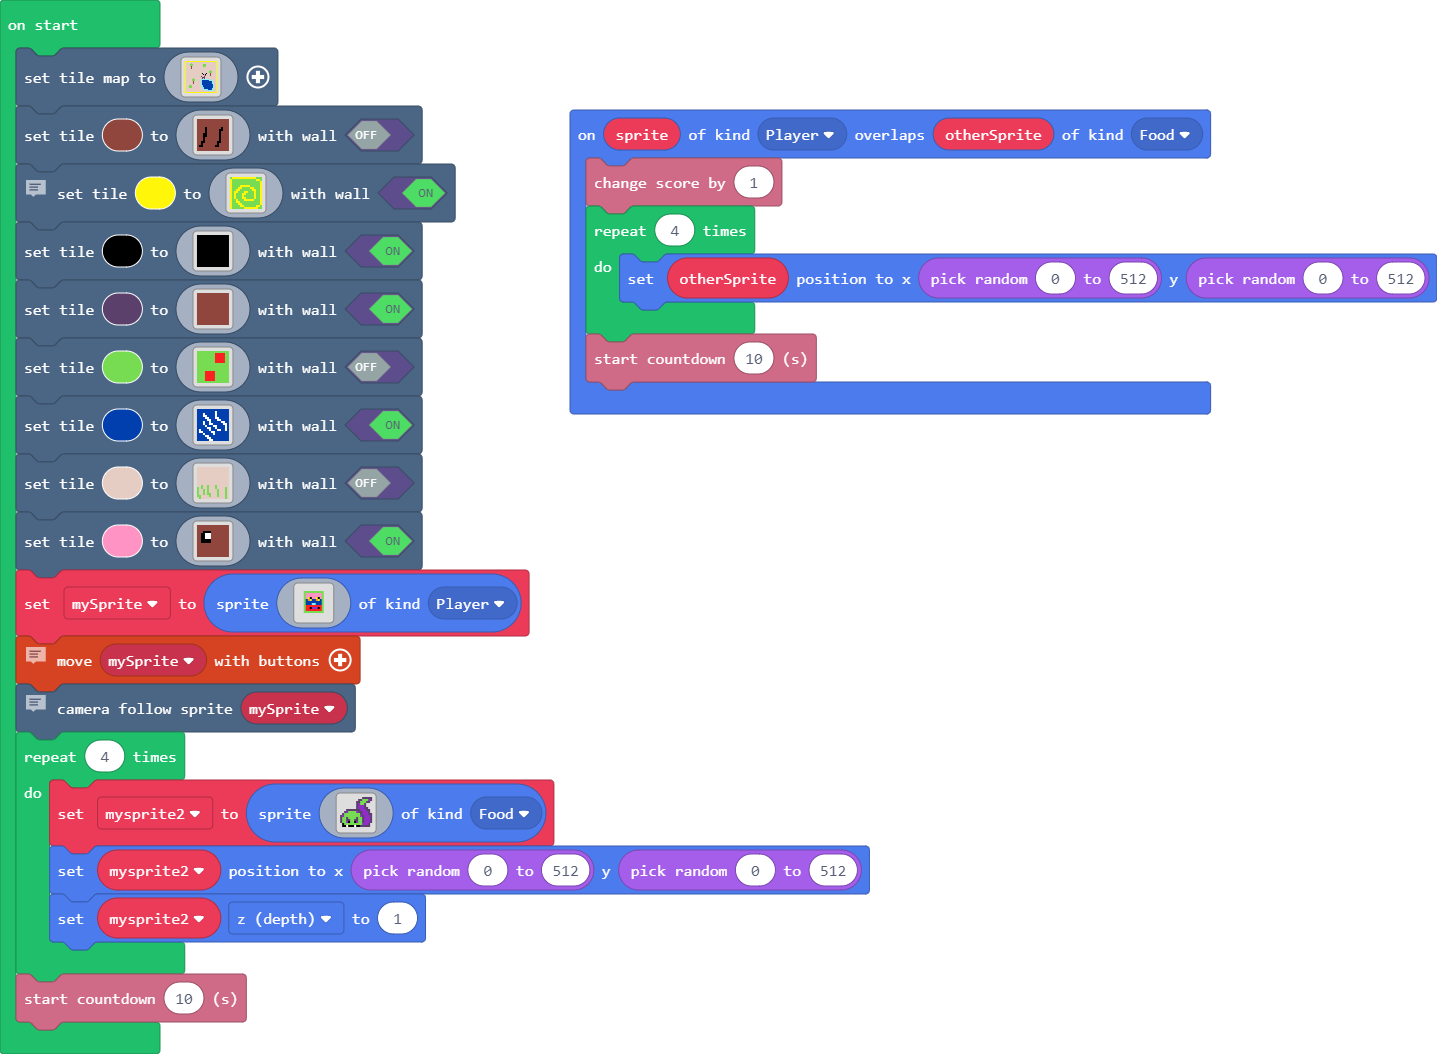
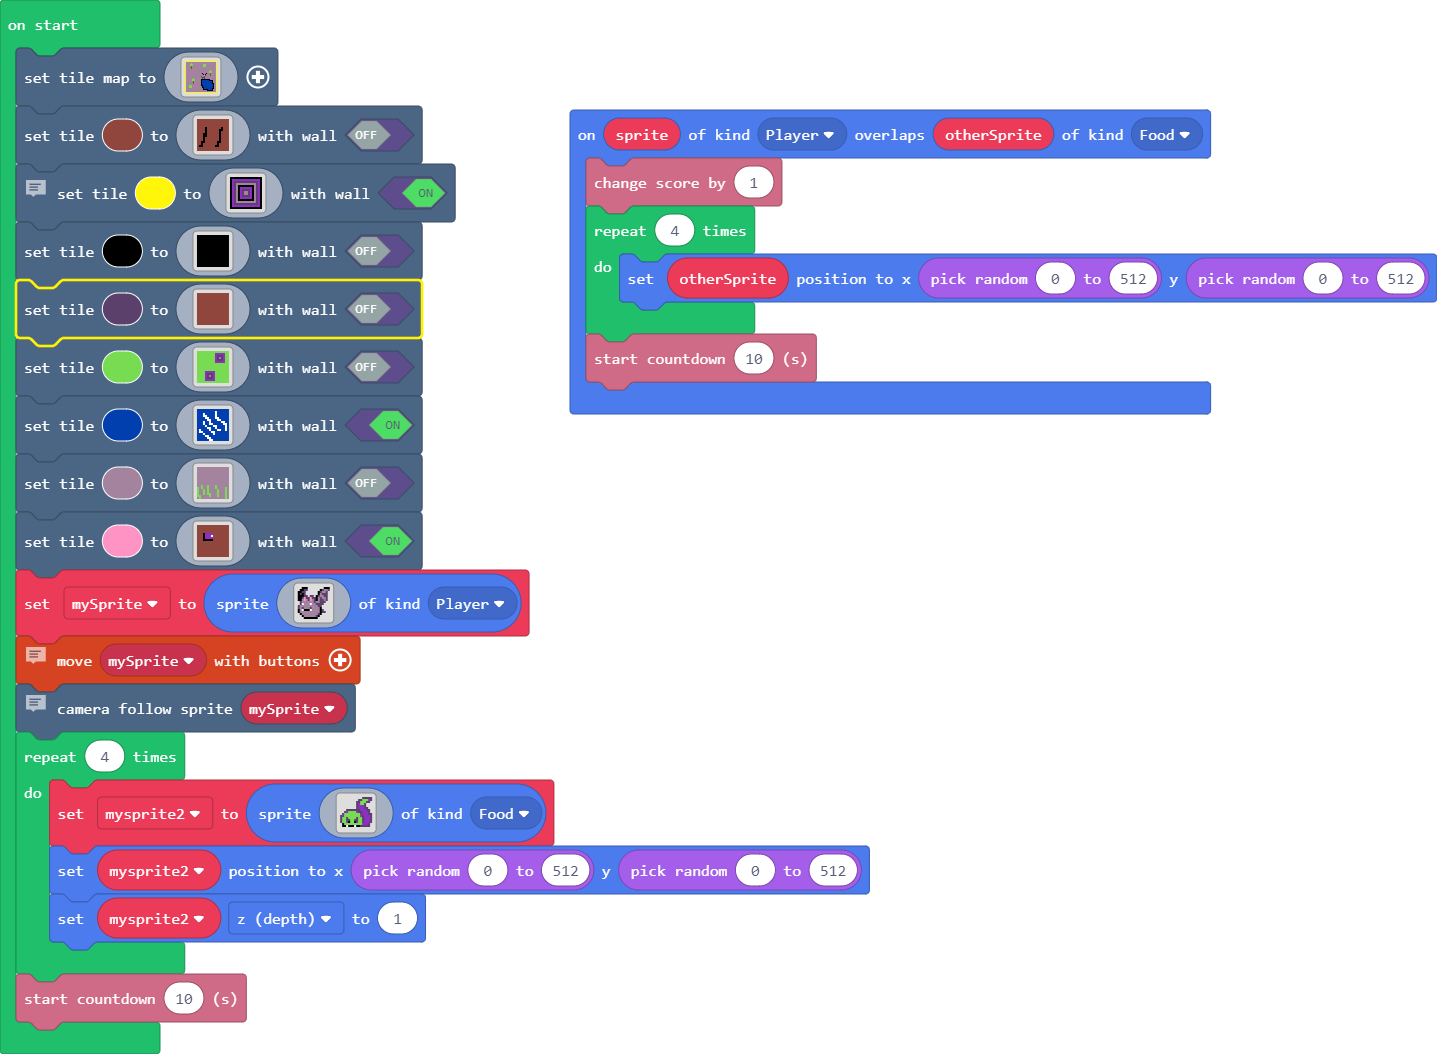
Update main.blocks, main.ts

diff --git a/main.ts b/main.ts
@@ -8,36 +8,36 @@ sprites.onOverlap(SpriteKind.Player, SpriteKind.Food, function (sprite, otherSpr
 let mysprite2: Sprite = null
 scene.setTileMap(img`
 5 5 5 5 5 5 5 5 5 5 5 5 5 5 5 5 5 5 5 5 5 5 5 5 5 5 5 5 5 5 5 5 
-5 d d d d d d d d d d d d d d d d d d d d d d d d d d d d d d 5 
-5 d d d d d 7 d d d d d d d d d d d d d d d d d d d d d d d d 5 
-5 d d d d 7 7 7 d d d d d d d d d d 7 7 7 d d d d d d d d d d 5 
-5 d d d d 7 7 7 d d d d d d d d d d 7 7 7 d d d d d d d d d d 5 
-5 d d d d d e d d d d d d d d d d d 7 7 7 d d d d d d d d d d 5 
-5 d d d d d e d d d d d d d d d d d d d d d d d d d d d d d d 5 
-5 d d d d d e d d d d d d d d d d d d d d d d d d d d d d d d 5 
-5 d d d d d d d d d d d d d d d d d d d d d d d d d d d d d d 5 
-5 d d d d d d d d d d d d d d d d d d d d d d d d 7 d d d d d 5 
-5 d d d d d d d d d d d d d d d d d d d d d d d 7 7 7 d d d d 5 
-5 d d d d d d d d d d d d d d d d d d d d d d d 7 7 7 d d d d 5 
-5 d d d d d d d d d d d d d d d d f d d d f d d d e d d d d d 5 
-5 d d d d d d d d d d d d d d d d d f d f d d d d e d d d d d 5 
-5 d d d d d d d d d d d d d d d d d d 3 c d d d d e d d d d d 5 
-5 d d d d d d d d d d d d d d d c d d c d d d d d d d d d d d 5 
-5 d d d d d d d d d d d d d d d d c c c d d d d d d d d d d d 5 
-5 d d d d d d d 7 d d d d d d d d c d c d d d d d d d d d d d 5 
-5 d d d d d d 7 7 7 d d d d d d 9 9 9 9 9 9 9 9 9 d d d d d d 5 
-5 d d d d d d 7 7 7 d d d d d d 9 8 8 8 8 8 8 8 9 9 9 9 d d d 5 
-5 d d d d d d d e d d d d d d d 9 8 8 8 8 8 8 8 8 8 8 9 d d d 5 
-5 d d d d d d d e d d d d d d d 9 8 8 8 8 8 8 8 8 8 8 9 d d d 5 
-5 d d d d d d d e d d d d d d d 9 8 8 8 8 8 8 8 8 8 8 9 9 d d 5 
-5 d d d d d d d d d d d d d d d 9 8 8 8 8 8 8 8 8 8 8 8 9 d d 5 
-5 d d d 7 7 7 d d d d d d d d d 9 9 8 8 8 8 8 8 8 8 8 8 9 d d 5 
-5 d d d 7 7 7 d d d d d d d d d d 9 8 8 8 8 8 8 8 8 8 8 9 d d 5 
-5 d d d 7 7 7 d d d d d d d d d d 9 9 8 8 8 8 8 8 8 8 8 9 d d 5 
-5 d d d d d d d d d d d d d d d d d 9 8 8 8 8 8 8 8 8 9 9 d d 5 
-5 d d d d d d d d d d d d d d d d d 9 9 9 9 9 8 8 8 8 9 d d d 5 
-5 d d d d d d d d d d d d d d d d d d d d d 9 9 9 9 9 9 d d d 5 
-5 d d d d d d d d d d d d d d d d d d d d d d d d d d d d d d 5 
+5 b b b b b b b b b b b b b b b b b b b b b b b b b b b b b b 5 
+5 b b b b b 7 b b b b b b b b b b b b b b b b b b b b b b b b 5 
+5 b b b b 7 7 7 b b b b b b b b b b 7 7 7 b b b b b b b b b b 5 
+5 b b b b 7 7 7 b b b b b b b b b b 7 7 7 b b b b b b b b b b 5 
+5 b b b b b e b b b b b b b b b b b 7 7 7 b b b b b b b b b b 5 
+5 b b b b b e b b b b b b b b b b b b b b b b b b b b b b b b 5 
+5 b b b b b e b b b b b b b b b b b b b b b b b b b b b b b b 5 
+5 b b b b b b b b b b b b b b b b b b b b b b b b b b b b b b 5 
+5 b b b b b b b b b b b b b b b b b b b b b b b b 7 b b b b b 5 
+5 b b b b b b b b b b b b b b b b b b b b b b b 7 7 7 b b b b 5 
+5 b b b b b b b b b b b b b b b b b b b b b b b 7 7 7 b b b b 5 
+5 b b b b b b b b b b b b b b b b f b b b f b b b e b b b b b 5 
+5 b b b b b b b b b b b b b b b b b f b f b b b b e b b b b b 5 
+5 b b b b b b b b b b b b b b b b b b 3 c b b b b e b b b b b 5 
+5 b b b b b b b b b b b b b b b c b b c b b b b b b b b b b b 5 
+5 b b b b b b b b b b b b b b b b c c c b b b b b b b b b b b 5 
+5 b b b b b b b 7 b b b b b b b b c b c b b b b b b b b b b b 5 
+5 b b b b b b 7 7 7 b b b b b b f f f f f f f f f b b b b b b 5 
+5 b b b b b b 7 7 7 b b b b b b f 8 8 8 8 8 8 8 f f f f b b b 5 
+5 b b b b b b b e b b b b b b b f 8 8 8 8 8 8 8 8 8 8 f b b b 5 
+5 b b b b b b b e b b b b b b b f 8 8 8 8 8 8 8 8 8 8 f b b b 5 
+5 b b b b b b b e b b b b b b b f 8 8 8 8 8 8 8 8 8 8 f f b b 5 
+5 b b b b b b b b b b b b b b b f 8 8 8 8 8 8 8 8 8 8 8 f b b 5 
+5 b b b 7 7 7 b b b b b b b b b f f 8 8 8 8 8 8 8 8 8 8 f b b 5 
+5 b b b 7 7 7 b b b b b b b b b b f 8 8 8 8 8 8 8 8 8 8 f b b 5 
+5 b b b 7 7 7 b b b b b b b b b b f f 8 8 8 8 8 8 8 8 8 f b b 5 
+5 b b b b b b b b b b b b b b b b b f 8 8 8 8 8 8 8 8 f f b b 5 
+5 b b b b b b b b b b b b b b b b b f f f f f 8 8 8 8 f b b b 5 
+5 b b b b b b b b b b b b b b b b b b b b b f f f f f f b b b 5 
+5 b b b b b b b b b b b b b b b b b b b b b b b b b b b b b b 5 
 5 5 5 5 5 5 5 5 5 5 5 5 5 5 5 5 5 5 5 5 5 5 5 5 5 5 5 5 5 5 5 5 
 `)
 scene.setTile(14, img`
@@ -61,22 +61,22 @@ e e e e e e e e e e e e e e e e
 // when turned on, player can't move to this color.
 // There is a color texture to add to the yellow.
 scene.setTile(5, img`
-7 5 5 5 5 5 5 5 5 5 5 5 5 7 7 7 
-5 7 7 7 7 7 7 7 7 7 7 7 7 5 5 7 
-5 7 7 7 7 7 7 7 7 7 7 7 7 7 7 5 
-5 7 7 7 7 7 7 7 7 7 7 7 7 7 7 5 
-5 7 7 7 7 5 5 5 5 5 7 7 7 7 7 5 
-5 7 7 7 5 5 7 7 7 7 5 5 7 7 7 5 
-5 7 7 5 5 7 7 7 7 7 7 5 5 7 7 5 
-5 7 5 5 7 7 7 5 5 7 7 7 5 7 7 5 
-5 7 5 7 7 7 5 5 7 7 7 7 5 7 7 5 
-5 7 5 7 7 7 5 7 7 7 7 7 5 7 7 5 
-5 7 5 7 7 7 5 5 7 7 7 7 5 7 7 5 
-5 7 7 5 7 7 7 5 5 5 5 5 7 7 7 5 
-5 7 7 5 5 7 7 7 7 7 7 7 7 7 7 5 
-5 7 7 7 5 5 7 7 7 7 7 7 7 7 7 5 
-5 7 7 7 7 5 5 7 7 7 7 7 7 5 5 7 
-5 7 7 7 7 7 7 5 5 5 5 5 5 5 7 7 
+f f f f f f f f f f f f f f f f 
+f a a a a a a a a a a a a a a f 
+f a c c c c c c c c c c c c a f 
+f a c b b b b b b b b b b c a f 
+f a c b f f f f f f f f b c a f 
+f a c b f a a a a a a f b c a f 
+f a c b f a c c c c a f b c a f 
+f a c b f a c b b c a f b c a f 
+f a c b f a c b b c a f b c a f 
+f a c b f a c c c c a f b c a f 
+f a c b f a a a a a a f b c a f 
+f a c b f f f f f f f f b c a f 
+f a c b b b b b b b b b b c a f 
+f a c c c c c c c c c c c c a f 
+f a a a a a a a a a a a a a a f 
+f f f f f f f f f f f f f f f f 
 `, true)
 scene.setTile(15, img`
 f f f f f f f f f f f f f f f f 
@@ -95,7 +95,7 @@ f f f f f f f f f f f f f f f f
 f f f f f f f f f f f f f f f f 
 f f f f f f f f f f f f f f f f 
 f f f f f f f f f f f f f f f f 
-`, true)
+`, false)
 scene.setTile(12, img`
 e e e e e e e e e e e e e e e e 
 e e e e e e e e e e e e e e e e 
@@ -113,23 +113,23 @@ e e e e e e e e e e e e e e e e
 e e e e e e e e e e e e e e e e 
 e e e e e e e e e e e e e e e e 
 e e e e e e e e e e e e e e e e 
-`, true)
+`, false)
 scene.setTile(7, img`
 7 7 7 7 7 7 7 7 7 7 7 7 7 7 7 7 
-7 7 7 7 7 7 7 7 7 2 2 2 2 2 7 7 
-7 7 7 7 7 7 7 7 7 2 2 2 2 2 7 7 
-7 7 7 7 7 7 7 7 7 2 2 2 2 2 7 7 
-7 7 7 7 7 7 7 7 7 2 2 2 2 2 7 7 
-7 7 7 7 7 7 7 7 7 2 2 2 2 2 7 7 
+7 7 7 7 7 7 7 7 7 a a a a a 7 7 
+7 7 7 7 7 7 7 7 7 a c c c a 7 7 
+7 7 7 7 7 7 7 7 7 a c b c a 7 7 
+7 7 7 7 7 7 7 7 7 a c c c a 7 7 
+7 7 7 7 7 7 7 7 7 a a a a a 7 7 
 7 7 7 7 7 7 7 7 7 7 7 7 7 7 7 7 
 7 7 7 7 7 7 7 7 7 7 7 7 7 7 7 7 
 7 7 7 7 7 7 7 7 7 7 7 7 7 7 7 7 
 7 7 7 7 7 7 7 7 7 7 7 7 7 7 7 7 
-7 7 7 7 2 2 2 2 2 7 7 7 7 7 7 7 
-7 7 7 7 2 2 2 2 2 7 7 7 7 7 7 7 
-7 7 7 7 2 2 2 2 2 7 7 7 7 7 7 7 
-7 7 7 7 2 2 2 2 2 7 7 7 7 7 7 7 
-7 7 7 7 2 2 2 2 2 7 7 7 7 7 7 7 
+7 7 7 7 a a a a a 7 7 7 7 7 7 7 
+7 7 7 7 a c c c a 7 7 7 7 7 7 7 
+7 7 7 7 a c b c a 7 7 7 7 7 7 7 
+7 7 7 7 a c c c a 7 7 7 7 7 7 7 
+7 7 7 7 a a a a a 7 7 7 7 7 7 7 
 7 7 7 7 7 7 7 7 7 7 7 7 7 7 7 7 
 `, false)
 scene.setTile(8, img`
@@ -150,34 +150,34 @@ scene.setTile(8, img`
 8 8 8 8 8 1 1 8 8 8 8 8 8 8 8 8 
 8 8 8 8 8 8 1 1 8 8 8 8 8 8 8 8 
 `, true)
-scene.setTile(13, img`
-d d d d d d d d d d d d d d d d 
-d d d d d d d d d d d d d d d d 
-d d d d d d d d d d d d d d d d 
-d d d d d d d d d d d d d d d d 
-d d d d d d d d d d d d d d d d 
-d d d d d d d d d d d d d d d d 
-d d d d d d d d d d d d d d d d 
-d d d d d d d d d d d d d d d d 
-d d d d d d d d d d d d d d d d 
-d d 7 d d 7 d d d 7 d d d d d d 
-7 d 7 d d 7 d d d 7 d d d d 7 d 
-7 d d 7 d 7 d d d d 7 d d d 7 d 
-7 d d 7 d 7 d d d d 7 d d d 7 d 
-7 d d 7 d 7 7 d d d 7 d d d 7 d 
-7 7 d d d d 7 d d d 7 d d d 7 d 
-d 7 d d d d d d d d d d d d 7 d 
+scene.setTile(11, img`
+b b b b b b b b b b b b b b b b 
+b b b b b b b b b b b b b b b b 
+b b b b b b b b b b b b b b b b 
+b b b b b b b b b b b b b b b b 
+b b b b b b b b b b b b b b b b 
+b b b b b b b b b b b b b b b b 
+b b b b b b b b b b b b b b b b 
+b b b b b b b b b b b b b b b b 
+b b b b b b b b b b b b b b b b 
+b b 7 b b 7 b b b 7 b b b b b b 
+7 b 7 b b 7 b b b 7 b b b b 7 b 
+7 b b 7 b 7 b b b b 7 b b b 7 b 
+7 b b 7 b 7 b b b b 7 b b b 7 b 
+7 b b 7 b 7 7 b b b 7 b b b 7 b 
+7 7 b b b b 7 b b b 7 b b b 7 b 
+b 7 b b b b b b b b b b b b 7 b 
 `, false)
 scene.setTile(3, img`
 e e e e e e e e e e e e e e e e 
 e e e e e e e e e e e e e e e e 
 e e e e e e e e e e e e e e e e 
-e e e f f f f e e e e e e e e e 
-e e f f 1 1 1 e e e e e e e e e 
-e e f f 1 1 1 e e e e e e e e e 
-e e f f 1 1 1 e e e e e e e e e 
-e e f f f f f e e e e e e e e e 
-e e f f f f f e e e e e e e e e 
+e e e e e e e e e e e e e e e e 
+e e e f a a a a e e e e e e e e 
+e e e f a a a 1 e e e e e e e e 
+e e e f a a a a e e e e e e e e 
+e e e f f f f f e e e e e e e e 
+e e e e e e e e e e e e e e e e 
 e e e e e e e e e e e e e e e e 
 e e e e e e e e e e e e e e e e 
 e e e e e e e e e e e e e e e e 
@@ -187,22 +187,22 @@ e e e e e e e e e e e e e e e e
 e e e e e e e e e e e e e e e e 
 `, true)
 let mySprite = sprites.create(img`
-. . . . . . . . . . . . . . . . 
-. . . . . . . . . . . . . . . . 
-. . . 7 7 7 7 7 7 7 7 7 7 . . . 
-. . . 7 3 3 3 3 3 3 3 3 7 . . . 
-. . . 7 3 3 3 3 3 3 3 3 7 . . . 
-. . . 7 3 5 f 3 3 5 f 3 7 . . . 
-. . . 7 8 4 5 8 8 4 5 8 7 . . . 
-. . . 7 8 8 8 8 8 8 8 8 7 . . . 
-. . . 7 8 8 8 9 9 8 8 8 7 . . . 
-. . . 7 2 2 2 2 2 2 2 2 7 . . . 
-. . . 7 2 2 f a a a f 2 7 . . . 
-. . . 7 2 2 2 2 2 2 2 2 7 . . . 
-. . . 7 7 7 7 7 7 7 7 7 7 . . . 
-. . . . . . . . . . . . . . . . 
-. . . . . . . . . . . . . . . . 
-. . . . . . . . . . . . . . . . 
+. . f f f . . . . . . . . f f f 
+. f f c c . . . . . . f c b b c 
+f f c c . . . . . . f c b b c . 
+f c f c . . . . . . f b c c c . 
+f f f c c . c c . f c b b c c . 
+f f c 3 c c 3 c c f b c b b c . 
+f f b 3 b c 3 b c f b c c b c . 
+. c b b b b b b c b b c c c . . 
+. c 1 b b b 1 b b c c c c . . . 
+c b b b b b b b b b c c . . . . 
+c b c b b b c b b b b f . . . . 
+f b 1 f f f 1 b b b b f c . . . 
+f b b b b b b b b b b f c c . . 
+. f b b b b b b b b c f . . . . 
+. . f b b b b b b c f . . . . . 
+. . . f f f f f f f . . . . . . 
 `, SpriteKind.Player)
 // controls the sprite
 controller.moveSprite(mySprite)
